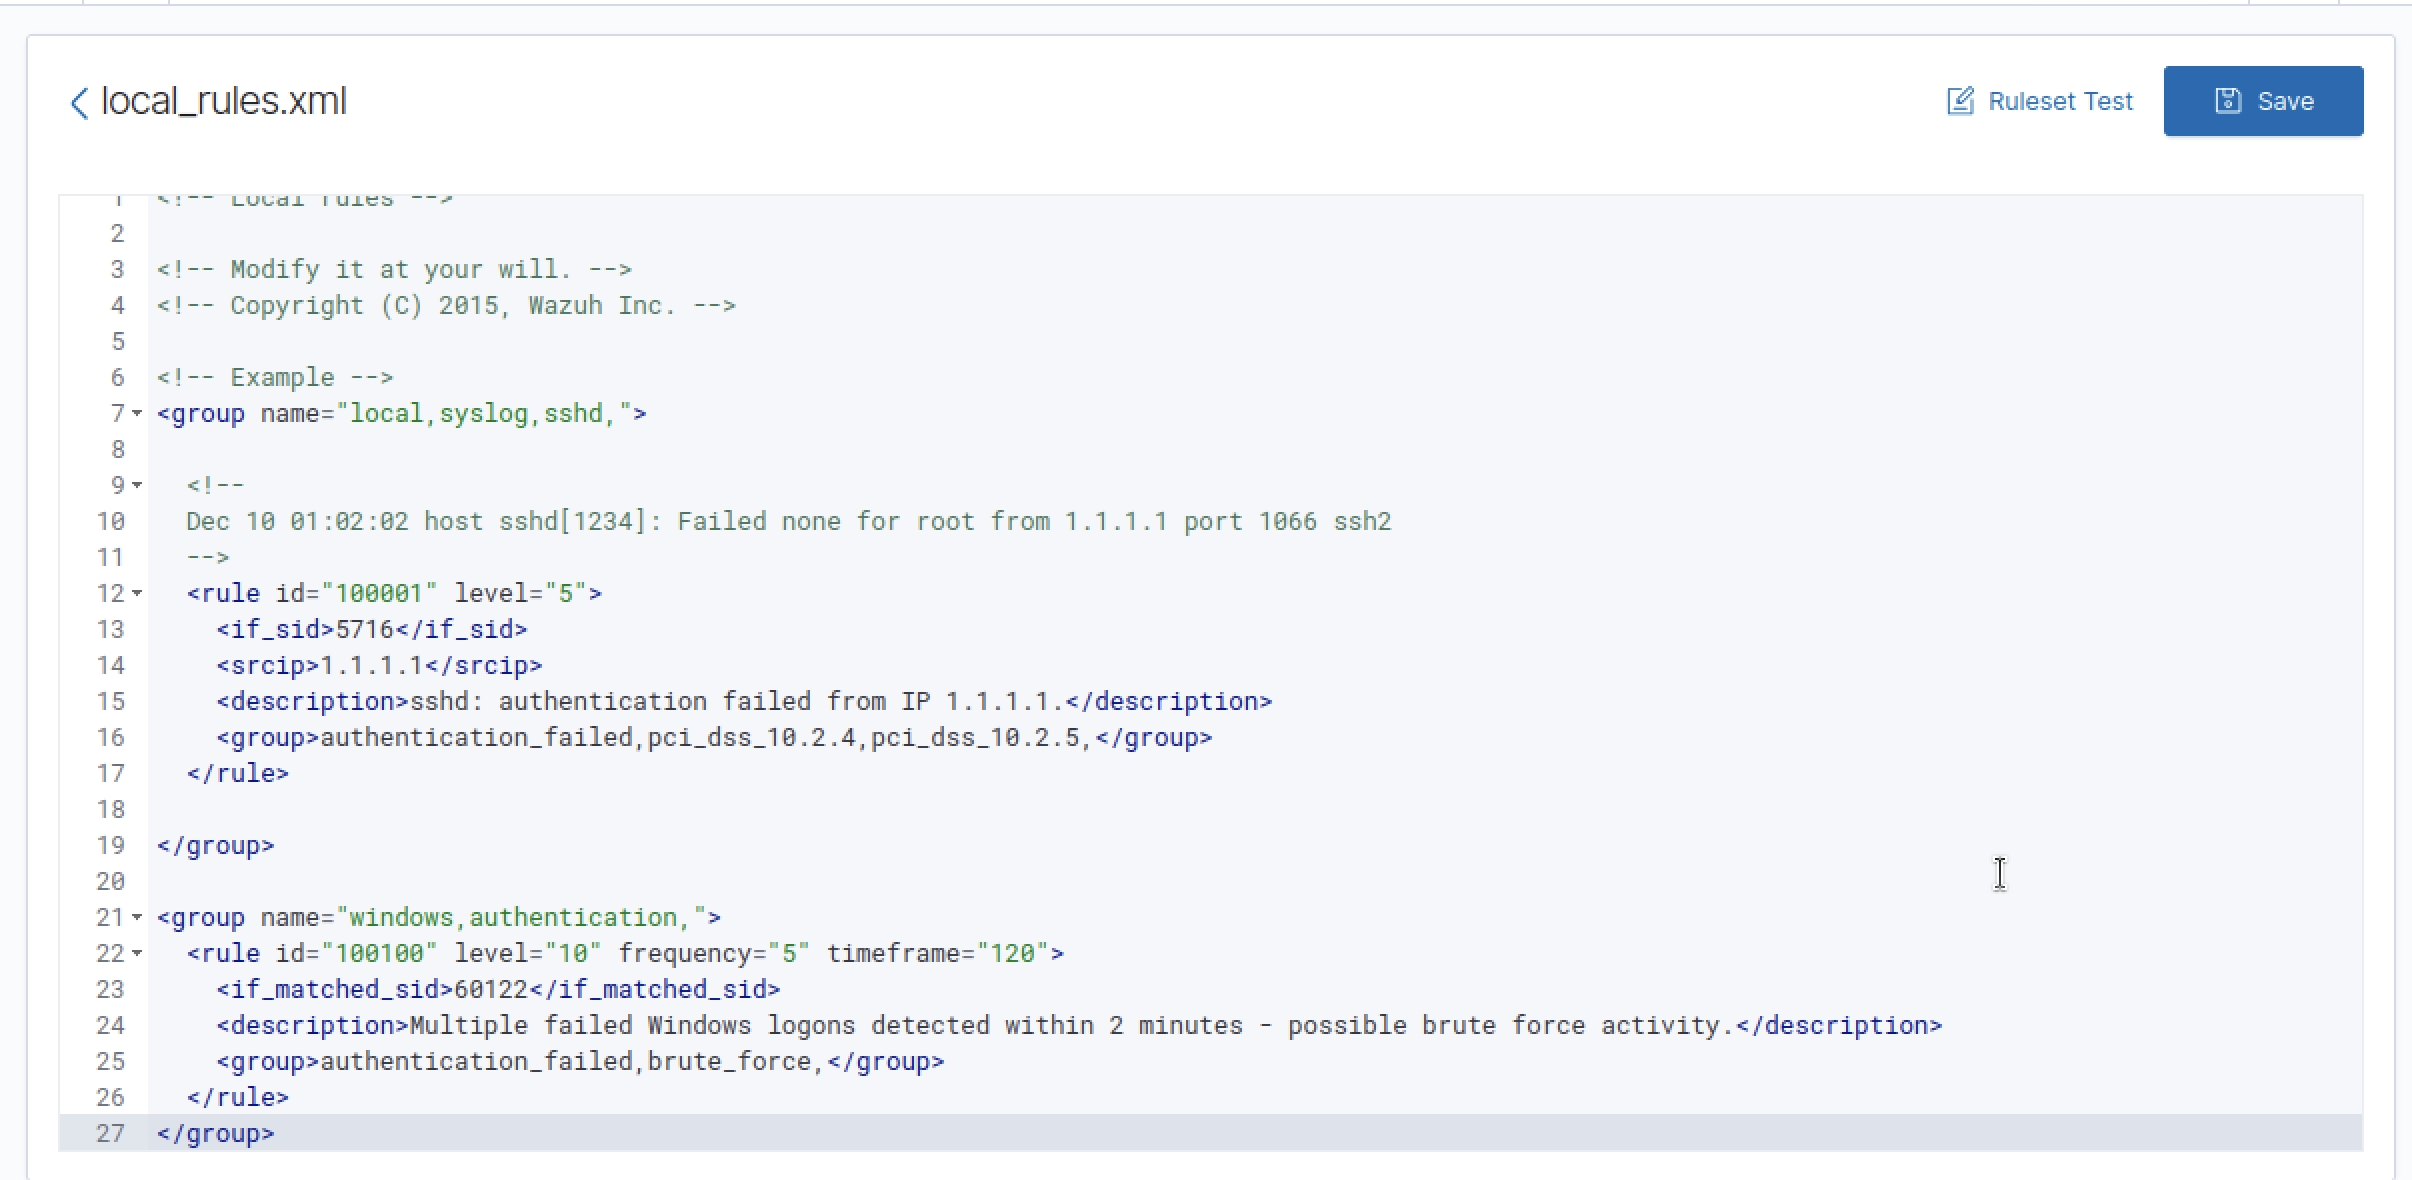
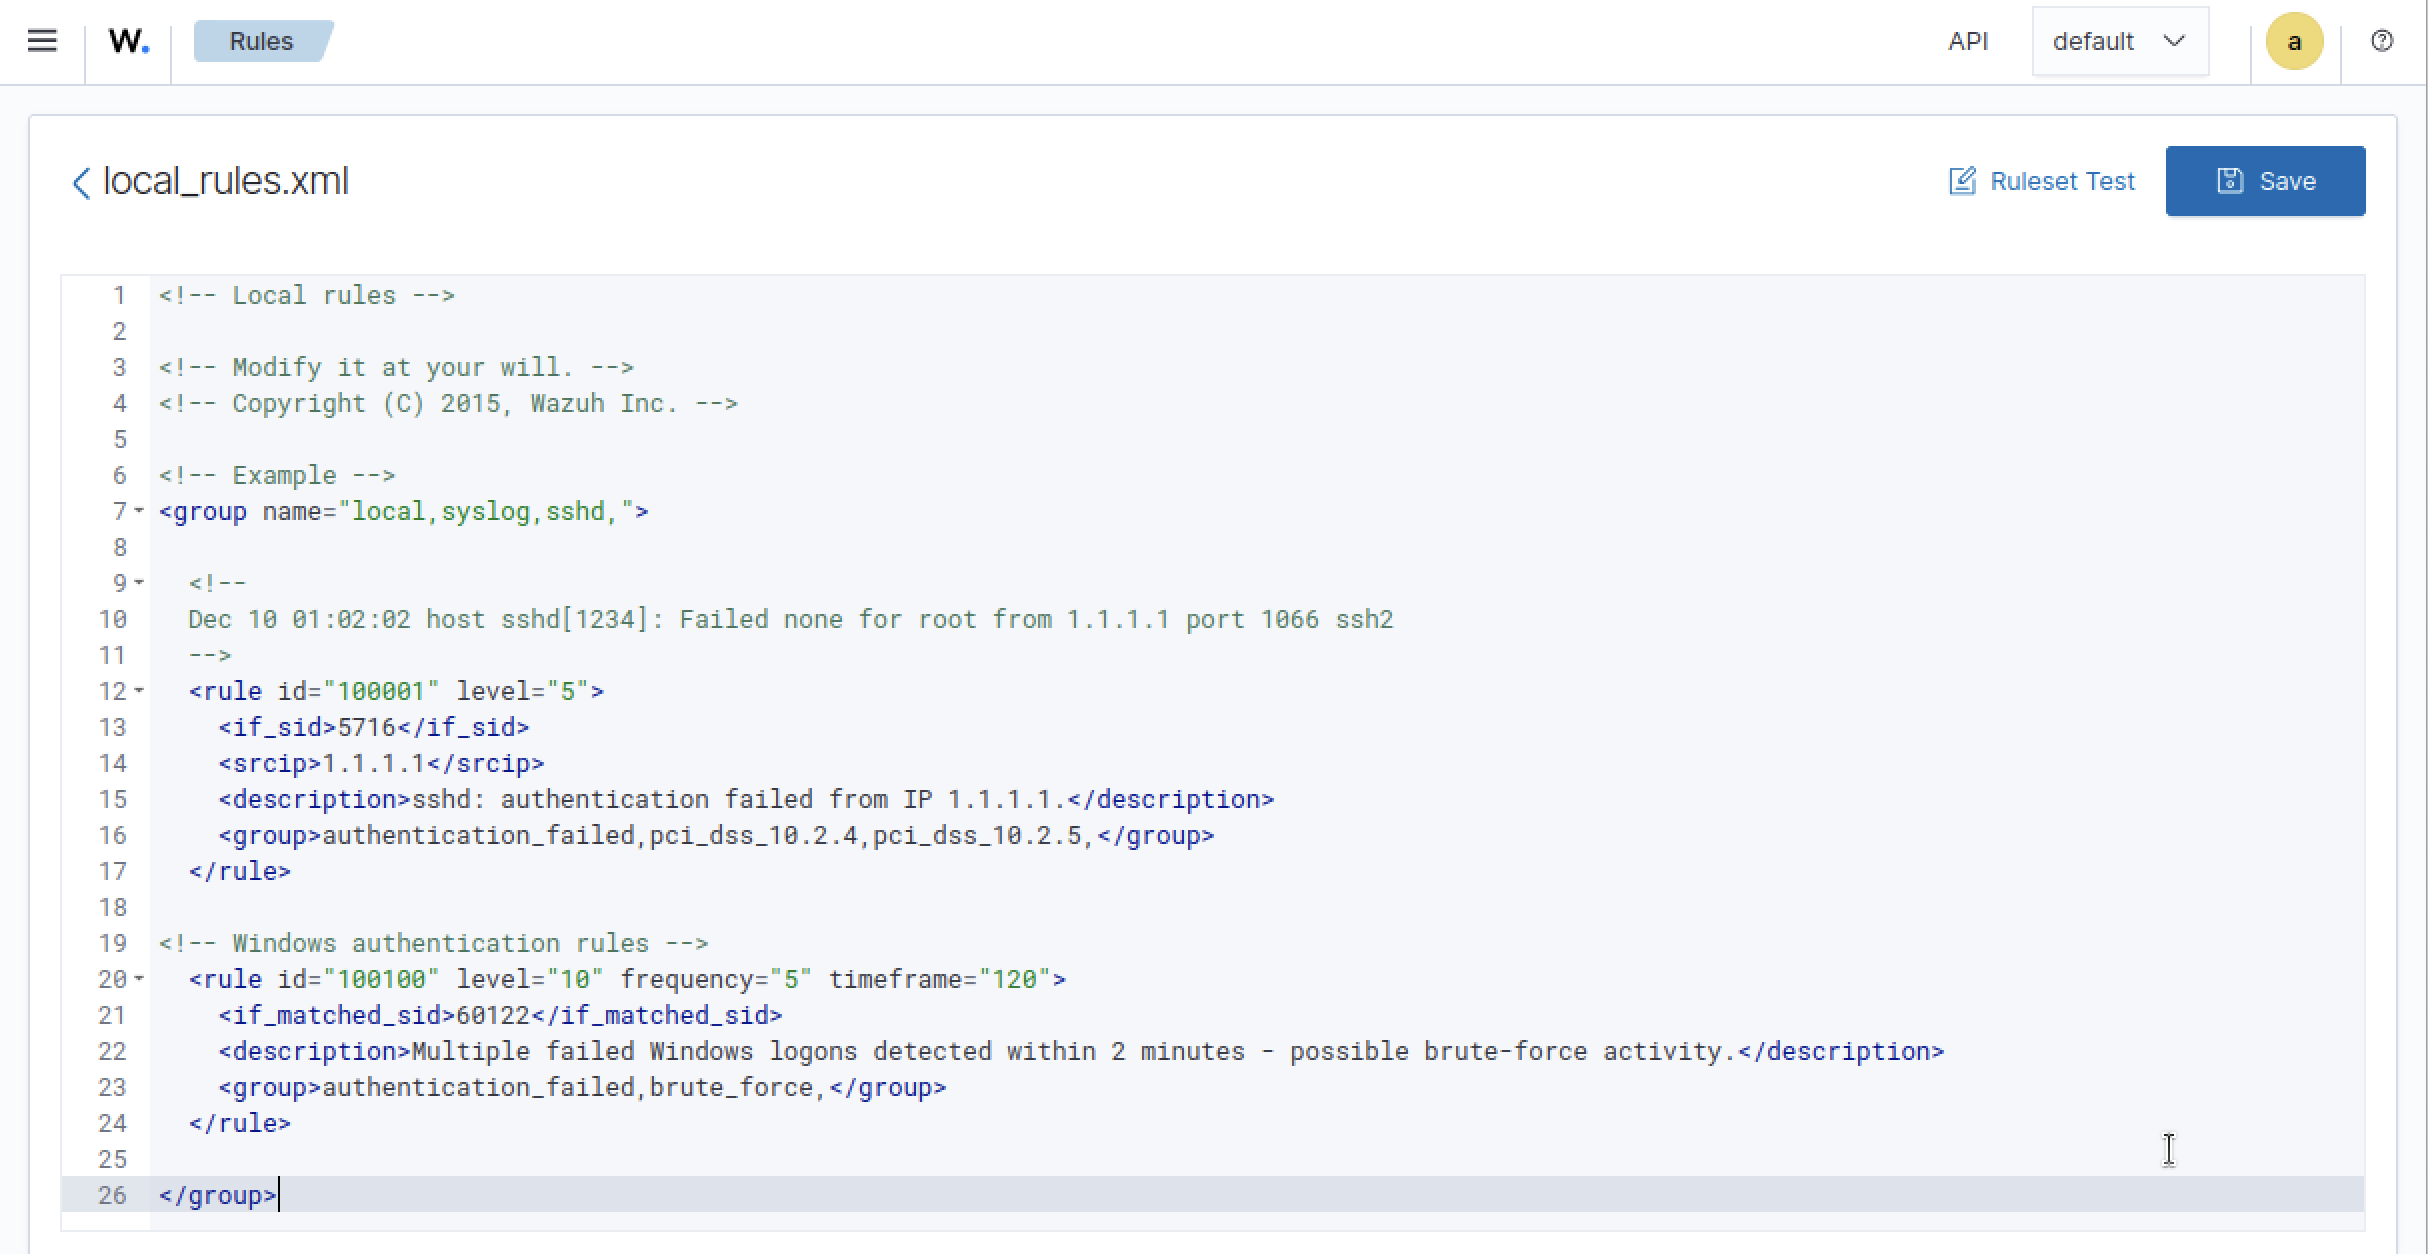
Add network reconnaissance detection

Changed region(s): [[0.0311, 0.2136, 0.8085, 0.9763], [0.0, 0.0, 1.0, 1.0], [0.4664, 0.4881, 0.5908, 0.5186]]

diff --git a/detections/05-network-reconnaissance.md b/detections/05-network-reconnaissance.md
@@ -1,0 +1,89 @@
+# Network Reconnaissance
+
+## Objective
+
+To evaluate whether Wazuh can detect network scanning activity and generate relevant security alerts.
+
+## Configuration
+
+Before performing the network reconnaissance tests, the Windows 11 endpoint was configured to audit Windows Filtering Platform connection and packet-drop events. This allowed successful and blocked connection attempts, as well as dropped network packets, to be recorded in the Windows Security event log.
+
+The following commands were executed in a PowerShell session with administrative privileges:
+
+```
+auditpol /set /subcategory:"Filtering Platform Connection" /success:enable /failure:enable
+
+auditpol /set /subcategory:"Filtering Platform Packet Drop" /success:enable /failure:enable
+```
+![Enable filtering logs](../screenshots/network-reconnaissance/01-enable-filtering.png)
+
+The **ossec.conf** file was then modified to ensure that Windows Event IDs 5152, 5156, and 5157 were not excluded from log collection. After opening the file in Notepad, the following configuration was added under the **Log analysis** section:
+
+```
+<localfile>
+  <location>Security</location>
+  <log_format>eventchannel</log_format>
+  <query>Event/System[(EventID = 5152 or EventID = 5156 or EventID = 5157)]</query>
+</localfile>
+```
+
+![ossec.conf Event ID configuration](../screenshots/network-reconnaissance/02-filtering-ossec-configuration.png)
+
+Following the configuration changes, the agent was restarted to ensure the changes were applied.
+
+```
+Restart-Service -Name Wazuh
+```
+
+Switching to the Ubuntu Server, a custom rule was then configured through the Wazuh Dashboard to generate an alert when the previously selected Event IDs were detected in connection with network activity originating from the Linux machine within a 2-minute window.
+
+By navigating to **Server management → Rules → Custom rules**, **local_rules.xml** was modified to include the following:
+
+```
+  <!-- Identify network connections from Kali Linux -->
+<rule id="100200" level="3">
+  <if_sid>60104</if_sid>
+  <field name="win.system.eventID" type="pcre2">^(5152|5156|5157)$</field>
+  <field name="win.eventdata.sourceAddress">192.168.24.30</field>
+  <description>Network connection activity originating from Kali Linux.</description>
+  <group>windows,network,reconnaissance,</group>
+</rule>
+
+<!-- Detect repeated connections to different destination ports -->
+<rule id="100201" level="10" frequency="8" timeframe="120">
+  <if_matched_sid>100200</if_matched_sid>
+  <same_field>win.eventdata.sourceAddress</same_field>
+  <different_field>win.eventdata.destPort</different_field>
+  <description>Possible network reconnaissance detected: repeated connection attempts to different ports from Kali Linux.</description>
+  <mitre>
+    <id>T1046</id>
+  </mitre>
+  <group>windows,network,reconnaissance,port_scan,</group>
+</rule>
+```
+
+![Network discovery local_rules.xml configuration](../screenshots/network-reconnaissance/03-network-discovery-rules.png)
+
+## Test Procedure
+
+The Kali Linux machine was used to execute an Nmap command in **Terminal** to simulate an attacker performing network reconnaissance against the Windows endpoint. The following command was executed:
+
+```
+sudo nmap -A 192.168.24.20
+```
+
+## Event Investigation
+
+Using the Wazuh Dashboard, alerts were filtered by rule ID 100201 to identify events generated by the network reconnaissance activity. The resulting alert indicated that network scanning activity originating from the Kali Linux machine had been detected.
+
+![Wazuh Dashboard reconnaissance alert](../screenshots/network-reconnaissance/04-wazuh-reconnaissance-alert.png)
+
+## Detection Results
+
+Wazuh successfully collected the network activity logs and generated an alert using custom rule ID 100201 following execution of the Nmap scan. Thus, confirming the detection rule identified network reconnaissance activity originating from the Kali Linux machine.
+
+## MITRE ATT&CK Mapping
+
+- **Tactic:** Discovery
+- **Technique:** Network Service Discovery
+- **Technique ID:** T1046

diff --git a/detections/README.md b/detections/README.md
@@ -11,5 +11,5 @@ Testing is primarily conducted on the Windows 11 endpoint, with selected activit
 1. [User Account Creation](01-user-account-creation.md) - Monitors Windows user account creation events.
 2. [Failed Logins](02-failed-logins.md) - Tests detection of repeated unsuccessful Windows authentication attempts.
 3. [File Integrity Monitoring](03-file-integrity-monitoring.md) - Tests whether changes to monitored files generate alerts.
-4. [Suspicious PowerShell Execution](04-suspicious-powershell-execution) - Detect suspicious command execution in Windows PowerShell.
-5. [Network Reconnaissance](05-network-reconnaissance.md) - 
+4. [Suspicious PowerShell Execution](04-suspicious-powershell-execution) - Detects potentially suspicious command execution using PowerShell.
+5. [Network Reconnaissance](05-network-reconnaissance.md) - Identifies network scanning activity against the Windows 11 endpoint. 

diff --git a/detections/02-failed-logins.md b/detections/02-failed-logins.md
@@ -24,13 +24,12 @@ Under **Server management → Rules → Custom rules**, **local_rules.xml** was 
 The following rule was added to detect repeated failed logon events:
 
 ```
-<group name="windows,authentication,">
+  <!-- Windows authentication rules -->
   <rule id="100100" level="10" frequency="5" timeframe="120">
     <if_matched_sid>60122</if_matched_sid>
     <description>Multiple failed Windows logons detected within 2 minutes - possible brute-force activity.</description>
-    <group>authentication_failed,brute_force,</group>
+    <group>windows,authentication,authentication_failed,brute_force,</group>
   </rule>
-</group>
 ```
 
 ![Custom rules configuration](../screenshots/failed-login-attempts/03-local-rules.png)
